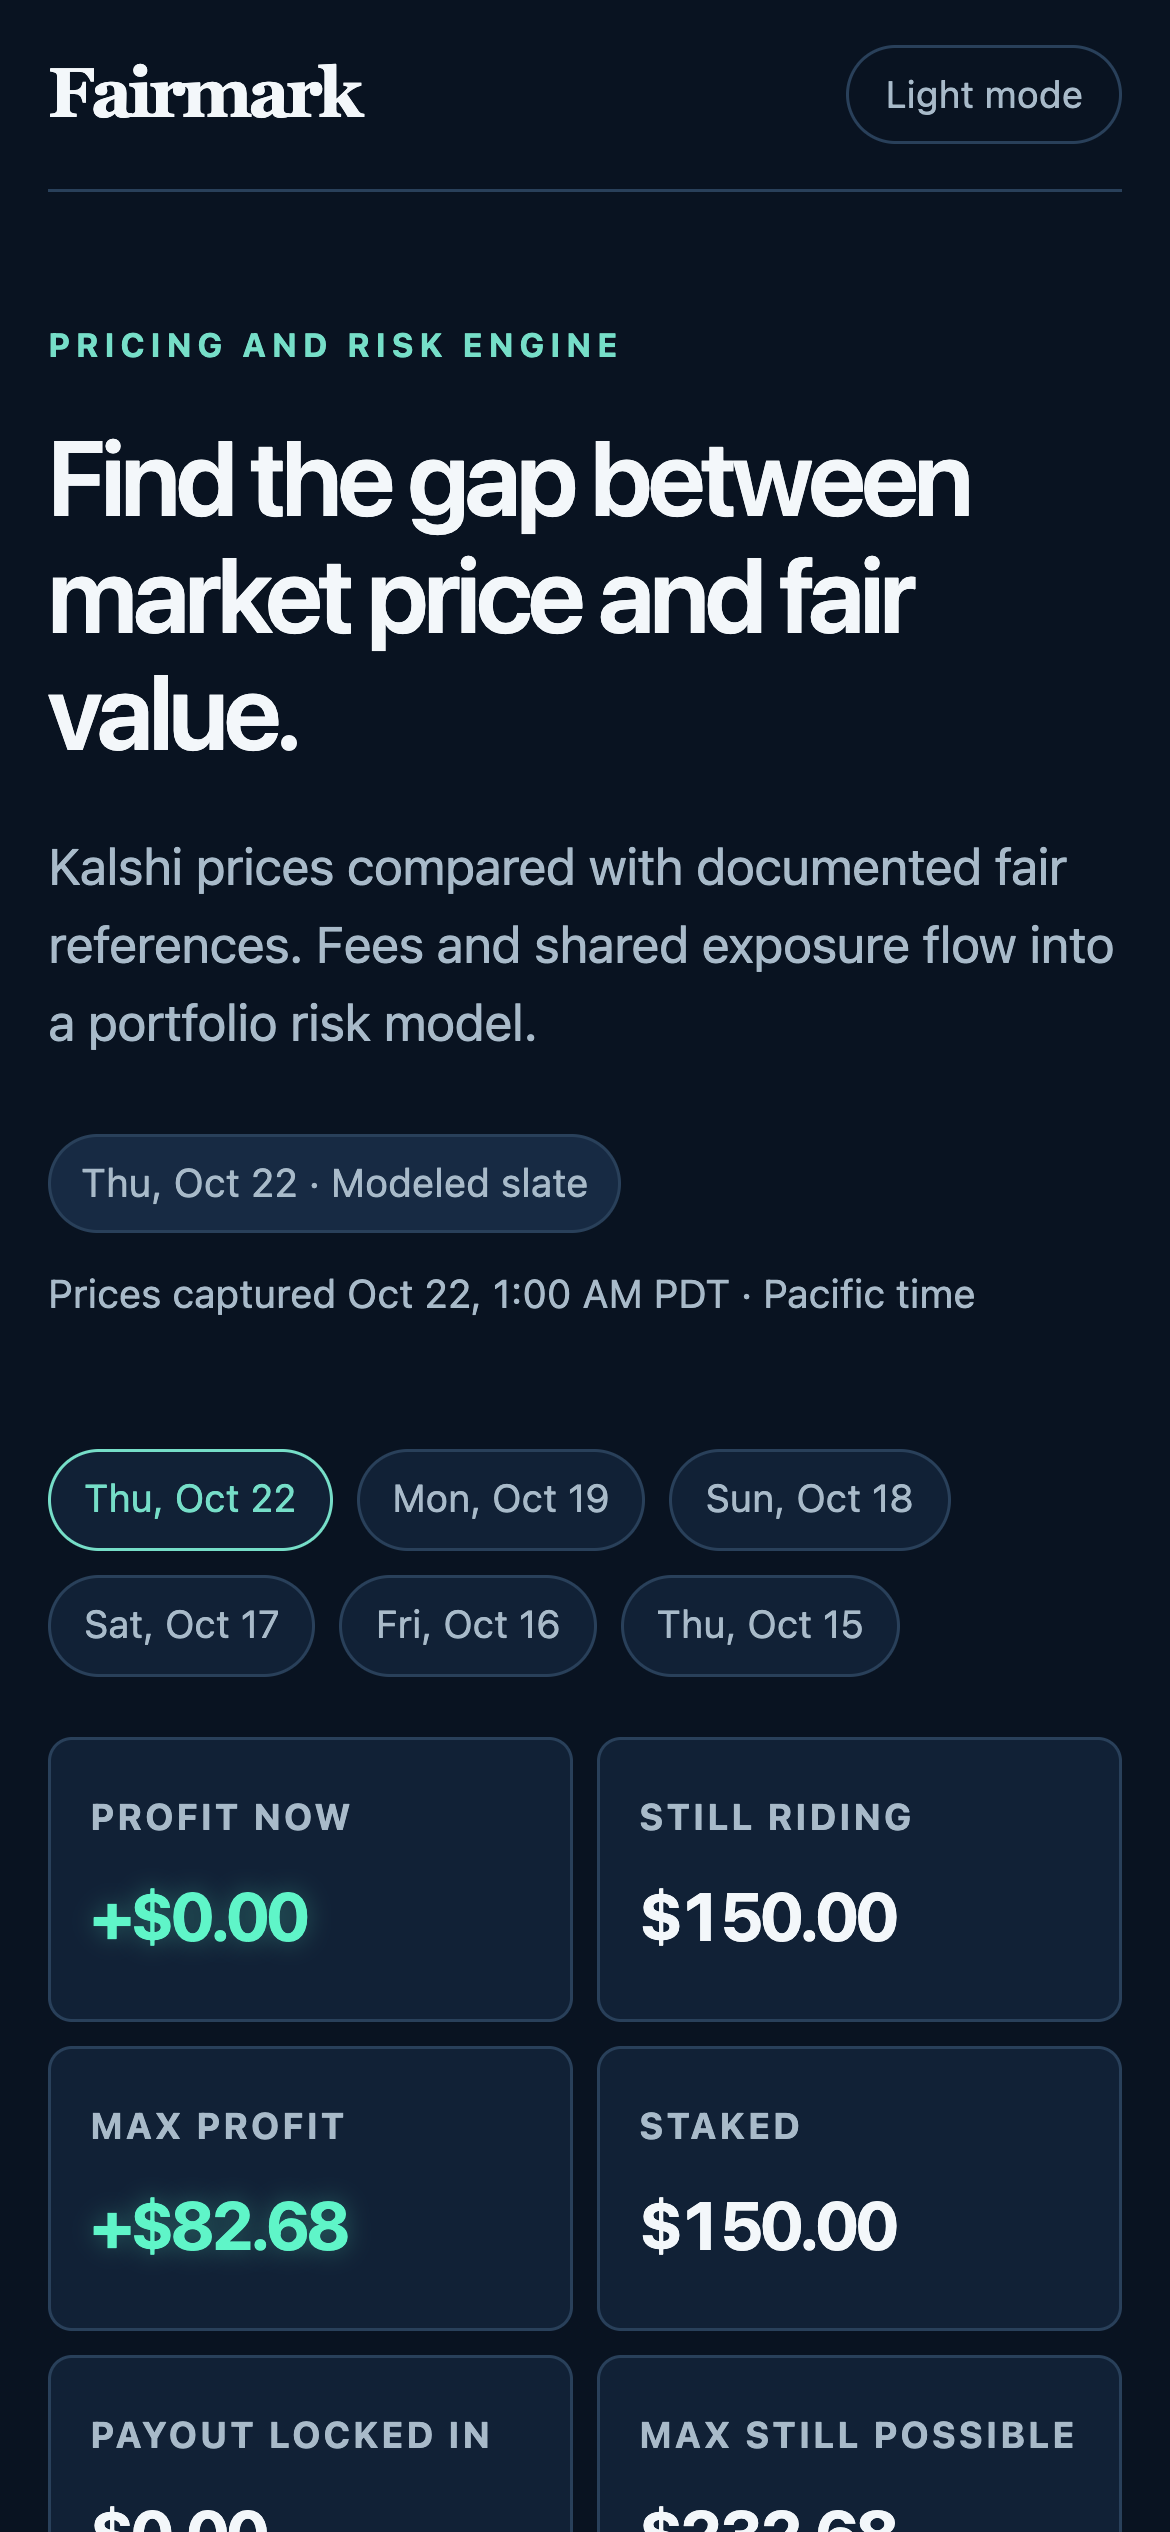
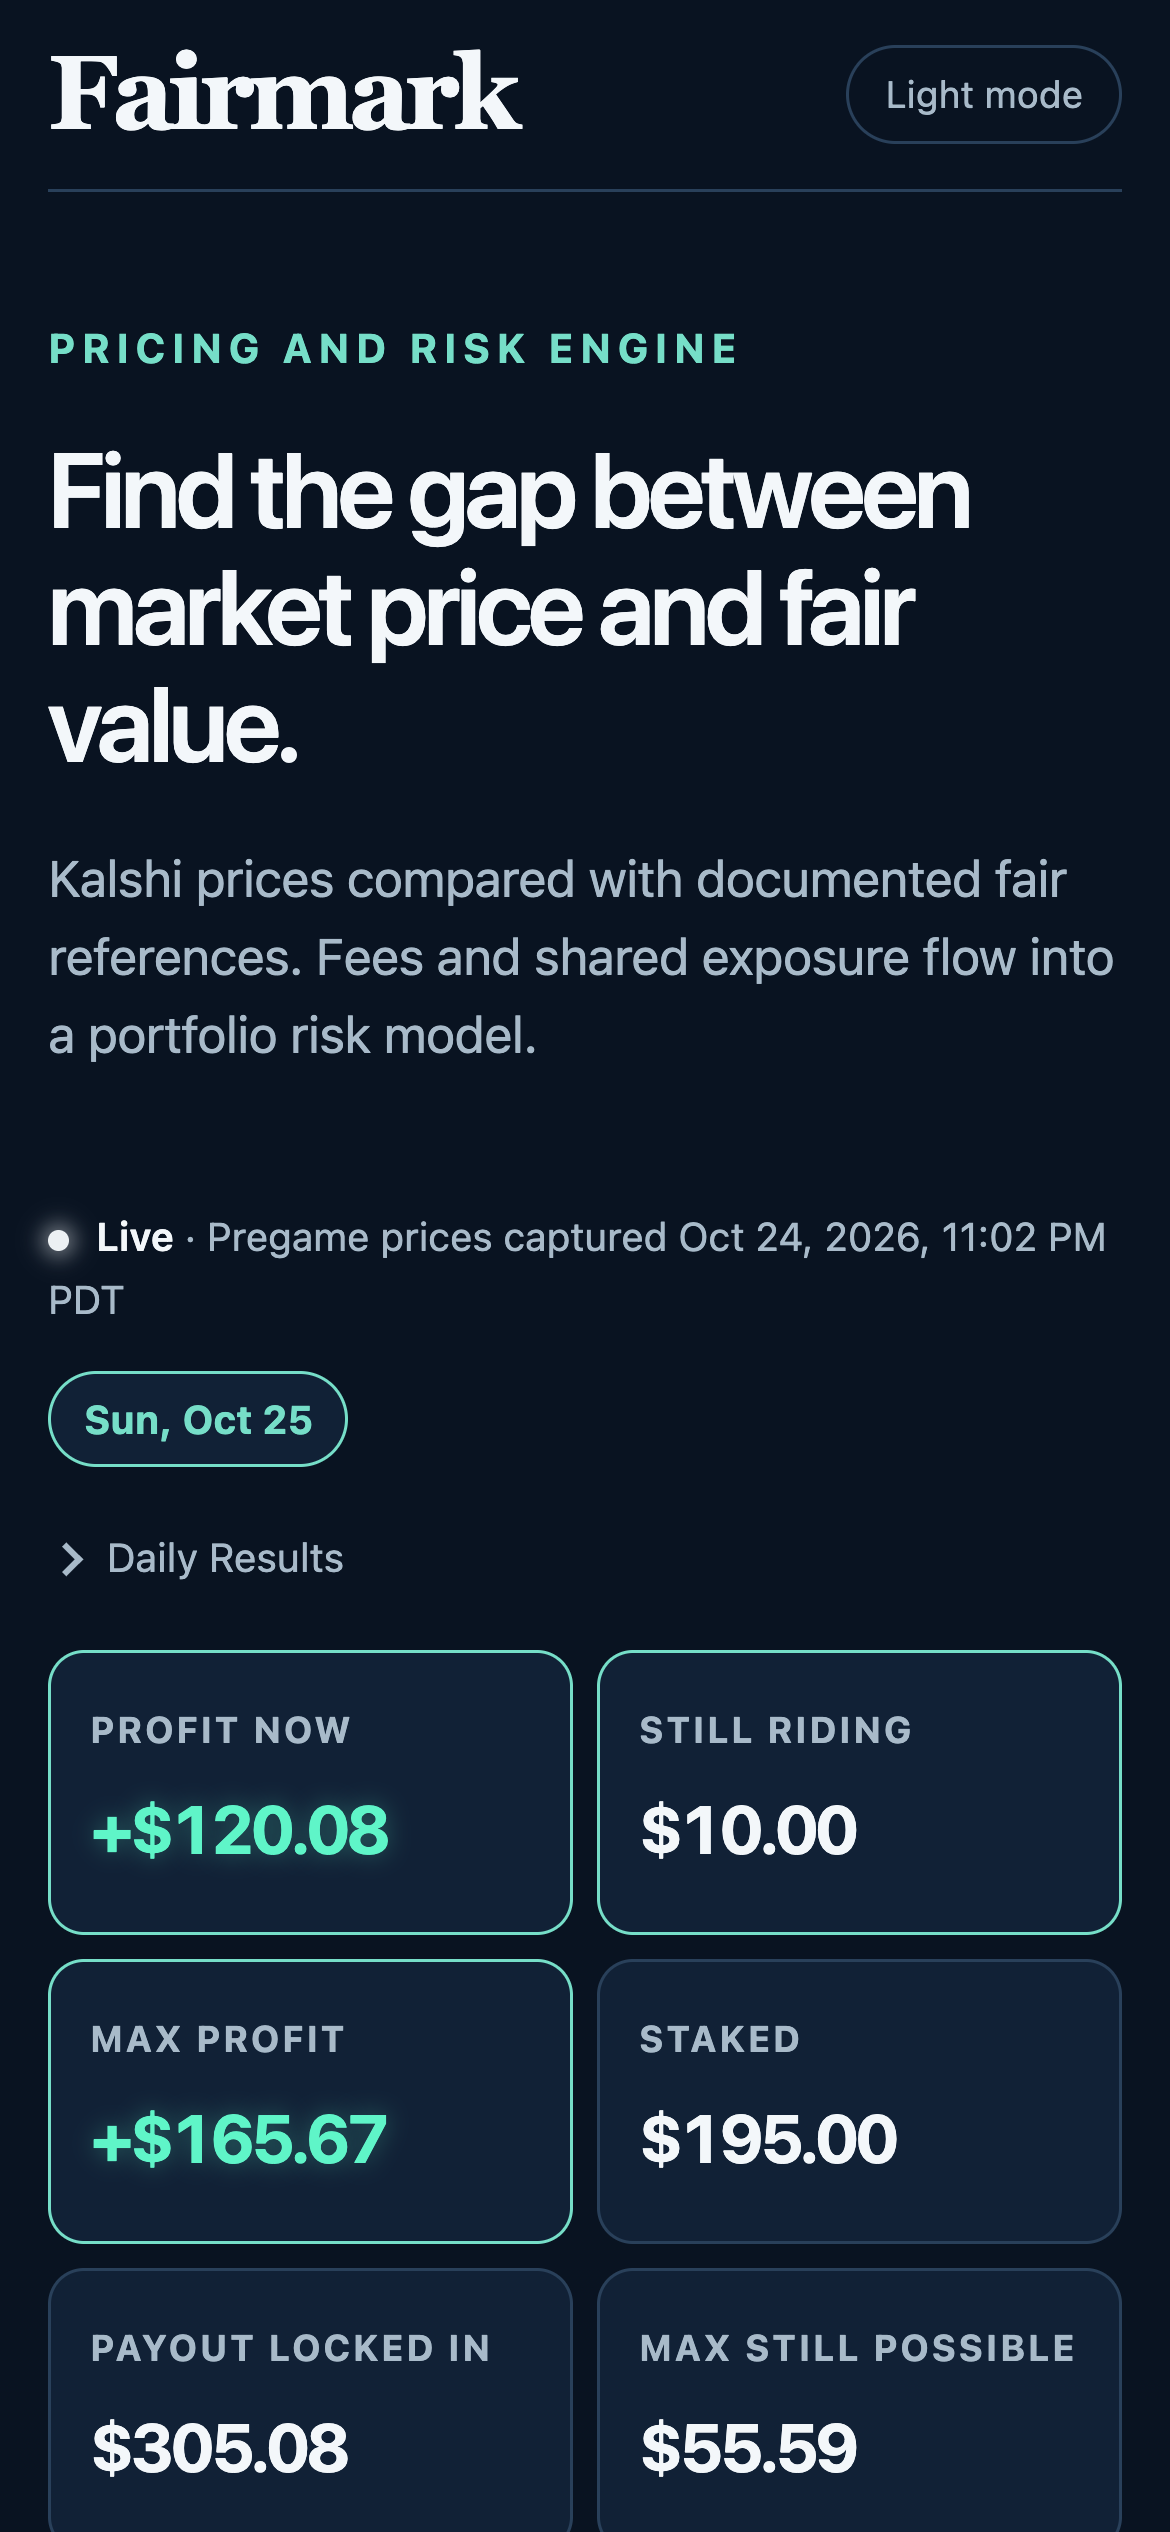
Refresh the README with per-section screenshots for sportsbook prices and the showcase day

diff --git a/README.md b/README.md
@@ -4,17 +4,38 @@ Fairmark is a pricing and risk engine for sports markets on Kalshi, a federally 
 
 Live: https://fairmark-app.pages.dev
 
-![Fairmark desktop view](docs/screenshot-desktop.png)
+![Fairmark summary](docs/screenshot-desktop-1-top.png)
 
 ## How it works
 
 - Removes Pinnacle's margin to estimate no-vig fair value.
-- Compares that value with Kalshi's ask plus the estimated taker fee.
+- Shows what a regular sportsbook charges for the same bet, DraftKings first, then FanDuel, then BetMGM, with the vig left in.
+- Compares fair value with Kalshi's ask plus Kalshi's taker fee: edge after fee = (fair − ask − fee) ÷ fair.
 - Uses Monte Carlo trials to estimate the chance of day profit, sampling shared legs once per trial.
+
+The demo day is built from one pregame capture of Kalshi and sportsbook prices, so every price on it is real and from before the games started. Results and the cash-out come from Kalshi's own market data.
+
+### Price vs. Fair
+
+Each leg's Kalshi ask next to the sportsbook price and the Pinnacle no-vig fair, with the fee and the edge after fee.
+
+![Price vs. Fair](docs/screenshot-desktop-2-price-vs-fair.png)
+
+### Timeline
+
+Every leg in start order, with live prices and final results from Kalshi.
+
+![Timeline](docs/screenshot-desktop-3-timeline.png)
+
+### Slips
+
+Won, dead, cashed out and still riding, with a total for the day.
+
+![Slips](docs/screenshot-desktop-4-slips.png)
 
 ## Stack
 
-Python 3.12 with uv, Cloudflare Pages Functions, Workers KV, and a poller for market updates.
+Python 3.12 with uv, Cloudflare Pages Functions, Workers KV, The Odds API for sportsbook lines, and a poller for Kalshi market updates.
 
 ## Run locally
 
